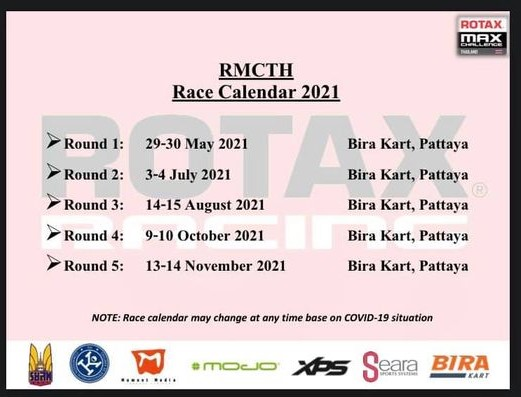
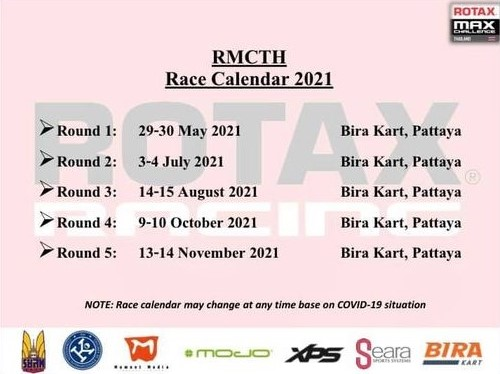
correction shadow img card competition

diff --git a/css/main.css b/css/main.css
@@ -361,10 +361,14 @@ img {
 
 .rotaxmax-calendar img {
   height: 320px;
+  -webkit-box-shadow: 0 5px 15px #505050, inset 0 5px 15px #505050;
+          box-shadow: 0 5px 15px #505050, inset 0 5px 15px #505050;
 }
 
 .bira-track img {
   height: 320px;
+  -webkit-box-shadow: 0 5px 15px #505050, inset 0 5px 15px #505050;
+          box-shadow: 0 5px 15px #505050, inset 0 5px 15px #505050;
 }
 
 .card-race-body {
@@ -374,7 +378,7 @@ img {
   -webkit-box-pack: left;
       -ms-flex-pack: left;
           justify-content: left;
-  margin-top: 20px;
+  margin: 20px;
 }
 
 .card-race-body figcaption {
@@ -386,6 +390,12 @@ img {
   height: 2rem;
   position: relative;
   top: 10px;
+}
+
+.card-race-body p {
+  font-size: 1.5rem;
+  width: 30%;
+  margin-left: 8px;
 }
 
 /*####################################*\

diff --git a/index.html b/index.html
@@ -103,8 +103,9 @@
                 <a href="https://www.facebook.com/BiraCircuitPattaya/" target="_blank"><img src="media/facebook-square-brandsBlue.svg" alt="facebook page">Bira Circuit Pattaya</a>
                 </figcaption>
             </figure>
-        </div>
-        
+        </div> 
+        <!-- <p>Le challenge Rotamax Thailand est une competition de Karting equipé de moteur Rotamax delivrant XX cv pour un chassis de XX kg.<br>
+        Il se deroule pour la saison 2021 sur le circuit de Bira près de Pattaya.</p> -->
         </div>
 
 

diff --git a/css/page/_index.scss b/css/page/_index.scss
@@ -52,14 +52,16 @@
 
 .rotaxmax-calendar img{
     height:320px;
+    @include box-shadow-main;
 }
 .bira-track img{
     height:320px;
+    @include box-shadow-main;
 }
 .card-race-body{
     display:flex;
     justify-content: left;
-    margin-top:20px;
+    margin:20px;
     figcaption{
         text-align: center;
         font-size: 1.5rem;
@@ -69,7 +71,11 @@
             top:10px;
         }
     }
-
+    p{
+        font-size:1.5rem;
+        width:30%;
+        margin-left:8px;
+    }
 }
 
 /*####################################*\
